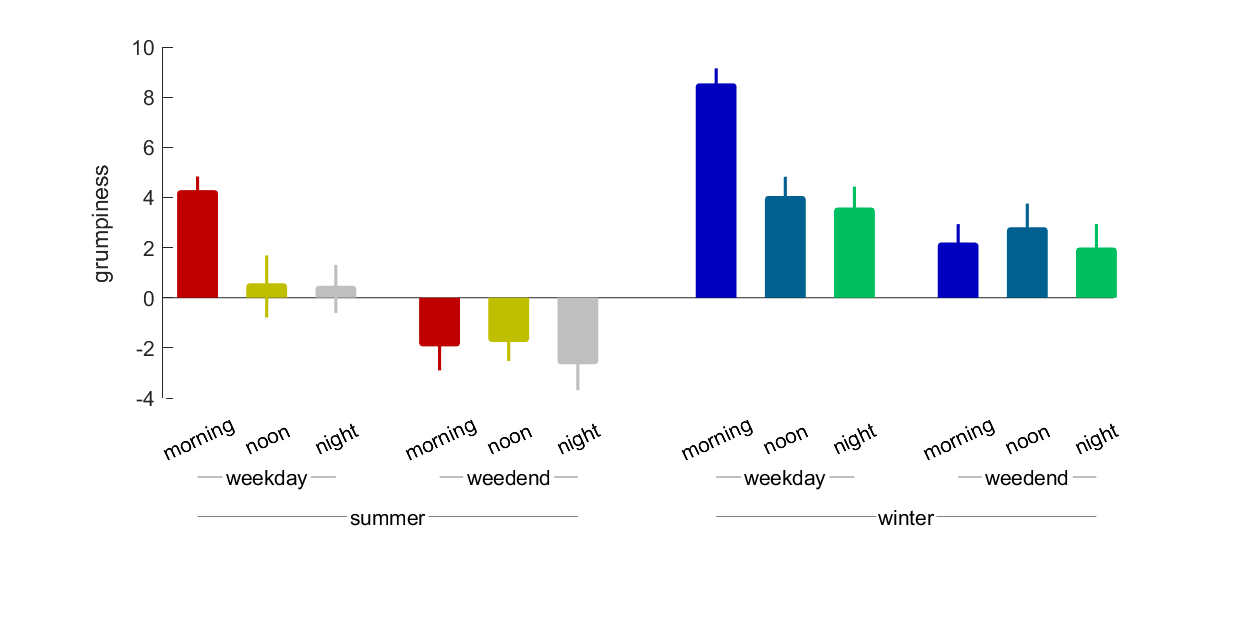
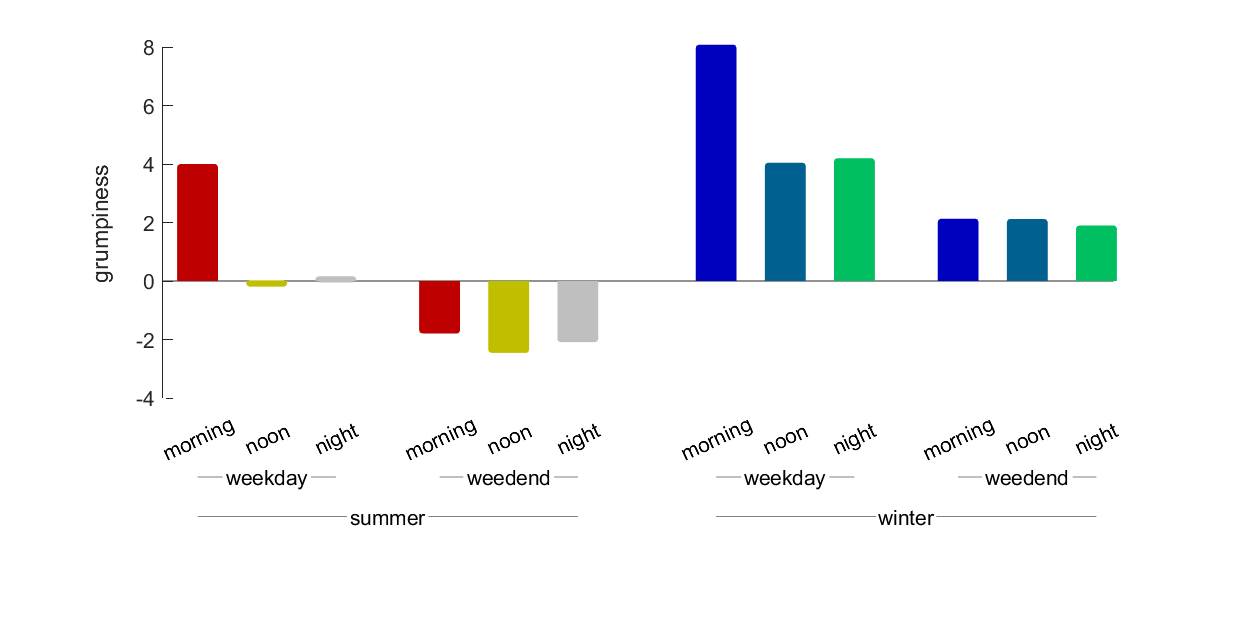
minor fixes

diff --git a/barFancy.m b/barFancy.m
@@ -45,7 +45,7 @@ s.lineThickness = 3;          % thickness of bar border
 % scatter settings
 s.connectDots = false;        % if samples are repeated measures (i.e. within subjects design), scatter points representing the same sample across conditions can be conneceted with lines
 s.showScatter = true;         % scatter the values of individual samples
-s.scatterColors = 'hsv';      % if single color, all scatters will have that colors // if a matlab color space (e.g. 'hsv') OR (number of samples per condition) X 3 matrix where each row is the color of a particular sample (apopropriate for repeated measure designs)
+s.scatterColors = 'hsv';      % if single color, all scatters will have that colors // if a matlab color space (e.g. 'hsv') OR (number of samples per condition) X 3 matrix where each row is the color of a particular sample (appropriate for repeated measure designs)
 s.scatterSize = 40;
 s.scatterAlpha = .2;
 

diff --git a/barFancy_demo.m b/barFancy_demo.m
@@ -38,7 +38,7 @@ barFancy(mood, 'levelNames', levels, 'ylabel', 'grumpiness', 'colors', colors, .
 %% bar plot with solid bars, no scatter points, and no error bars
 figure('Color', 'white', 'Position', [100 100, 800 400], 'MenuBar', 'none')
 barFancy(mood, 'levelNames', levels, 'ylabel', 'grumpiness', 'colors', colors, ...
-    'barAlpha', 1, 'showScatter', false)
+    'barAlpha', 1, 'showScatter', false, 'showErrorBars', false)
 
 %% reshuffle factor hierarchy
 

diff --git a/README.md b/README.md
@@ -1,12 +1,12 @@
-# fancy bar plots!
-I'm sick and tired of plots that aren't fancy! `barFancy` allows you to make beautiful bar plots for simple data, as well as datasets with arbitrarily complex factor hierarchies.
+# make your plots more fancy
+I'm sick and tired of plots that aren't fancy! `barFancy` allows you to make beautiful bar plots using simple data, as well as datasets with arbitrarily complex factor hierarchies.
 
 Imagine you are trying to figure out when people are most grumpy. You guess that grumpiness varies with certain **factors**, such as the season, the day of the week, and the time of day. Each of these factors has multiple **levels** (summer/winter, weekday/weekend, morning/noon/night). With `barFancy` you can quickly generate bar plots that show the hierarchical relationships between your factors:
 
 ![](exampleImages/bar2.png)
 
 
-`barFancy` takes as input a *number of factors + 1* dimensional data matrix, where each dimension is a factor, and the last dimension contains data from all of your samples. There are tons of visualization options that can be passed in as Name-Value pairs (see below).
+`barFancy` takes **requires only one input**: a *(number of factors) + 1* dimensional matrix, where each dimension is a factor, except the last dimension which contains data from all of your samples. There are tons of visualization options that can be passed as Name-Value pairs (see below).
 
 ## example
 Let's start by generating some fake grumpiness data:
@@ -69,7 +69,7 @@ barFancy(mood, 'levelNames', levels, 'ylabel', 'grumpiness', 'colors', colors, .
 ![](exampleImages/bar4.png)
 
 ## options
-Here are the default values for the options that can be passed in as Name-Value pairs:
+Here are the options that can be passed in as Name-Value pairs, along with their default values:
 ```
 % bar settings
 s.showBars = true;            % add vertical bars instead of just horizontal line at mean for each condition
@@ -87,7 +87,7 @@ s.lineThickness = 3;          % thickness of bar border
 % scatter settings
 s.connectDots = false;        % if samples are repeated measures (i.e. within subjects design), scatter points representing the same sample across conditions can be conneceted with lines
 s.showScatter = true;         % scatter the values of individual samples
-s.scatterColors = 'hsv';      % if single color, all scatters will have that colors // if a matlab color space (e.g. 'hsv') OR (number of samples per condition) X 3 matrix where each row is the color of a particular sample (apopropriate for repeated measure designs)
+s.scatterColors = 'hsv';      % if single color, all scatters will have that colors // if a matlab color space (e.g. 'hsv') OR (number of samples per condition) X 3 matrix where each row is the color of a particular sample (appropriate for repeated measure designs)
 s.scatterSize = 40;
 s.scatterAlpha = .2;
 
